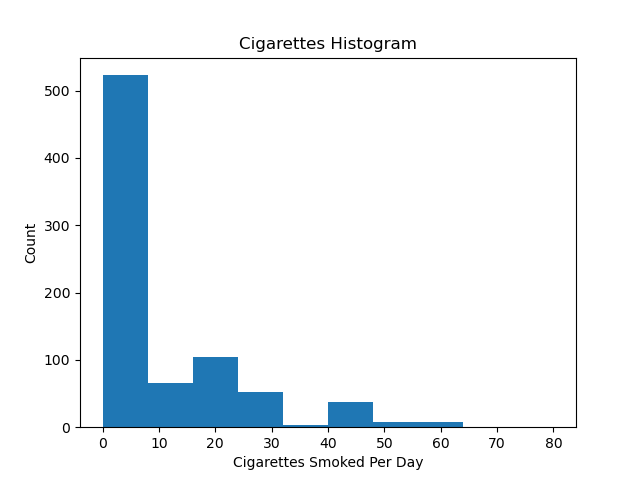
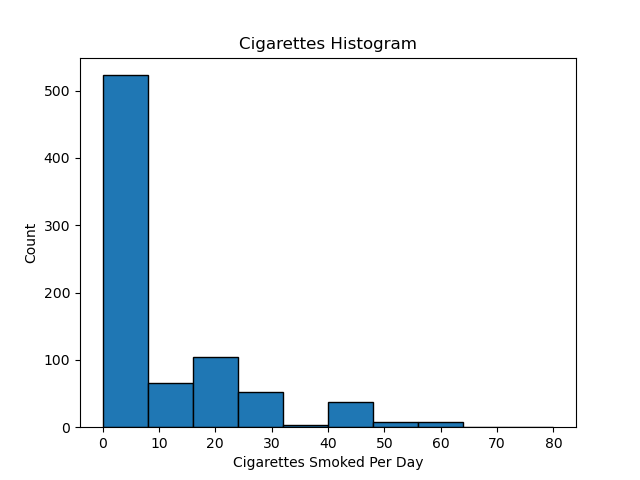
Improved hist bin boundaries

Changed region(s): [[0.1562, 0.1562, 0.3125, 0.9062], [0.3125, 0.7188, 0.75, 0.9062]]

diff --git a/SS340_HW1/SS340_HW1.py b/SS340_HW1/SS340_HW1.py
@@ -191,7 +191,7 @@ def problem2():
     
     # Cigrarettes column histogram
     plt.figure()
-    plt.hist(df["cigs"])
+    plt.hist(df["cigs"], ec='k')
     plt.title("Cigarettes Histogram")
     plt.xlabel("Cigarettes Smoked Per Day")
     
